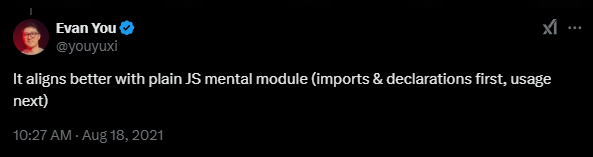
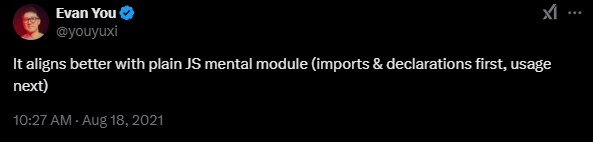
adding explanation image and update readme

diff --git a/README.md b/README.md
@@ -27,6 +27,10 @@ This extension helps you quickly set up a Vue 3 SFC (Single File Component) with
    2. Type `vue3initts` or `vue3init-ts`.
    3. Enjoy your new Vue 3 (TS) SFC!
 
+## Why does the script setup block go at the top?
+
+![Evan You explanation](images/explanation.png)
+
 ## Contributing
 
 Feel free to submit issues or pull requests.
